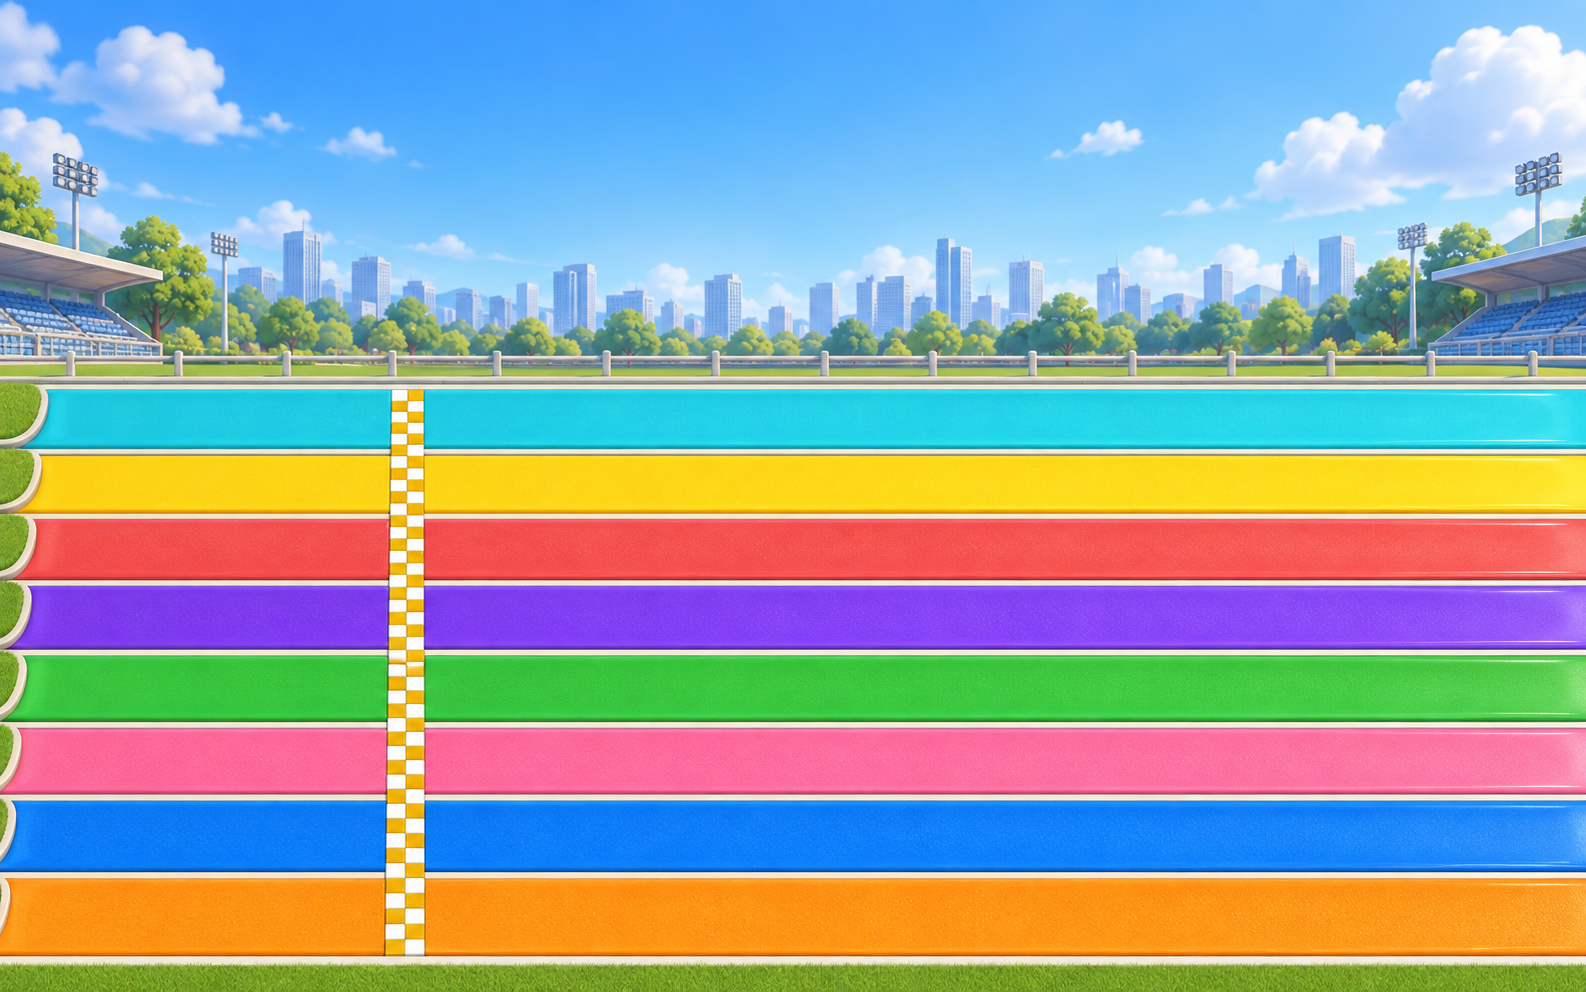
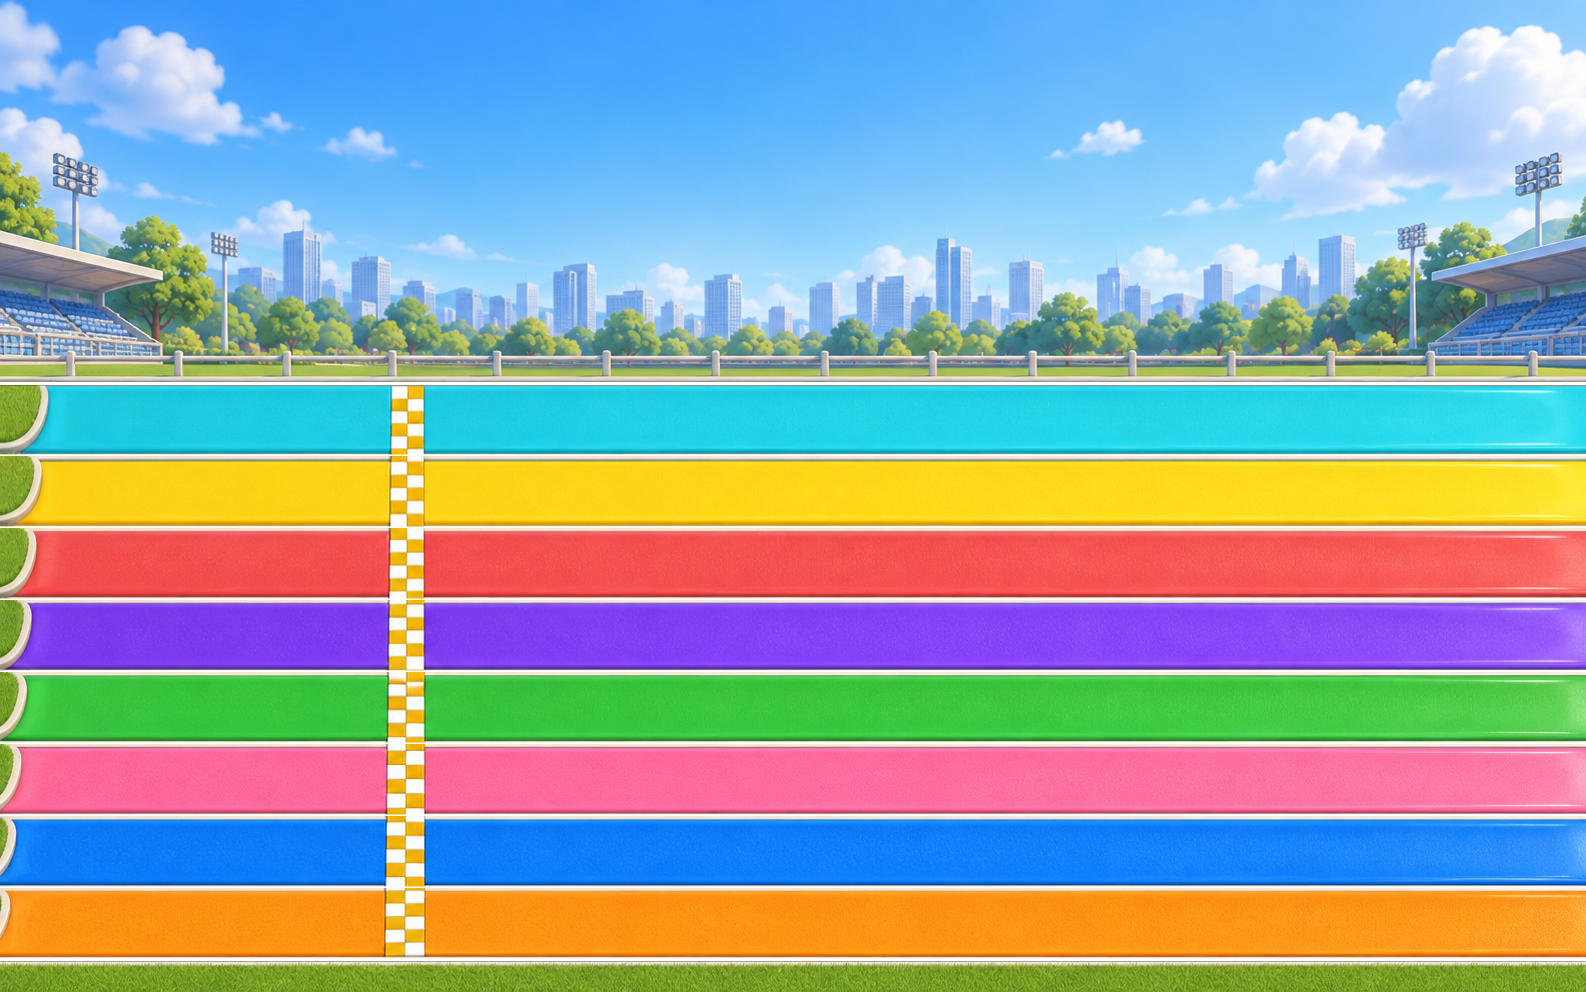
feat(team-competition): update stadium background with 8 equal lanes and continuous track

Changed region(s): [[0.0, 0.375, 1.0, 0.9688]]

diff --git a/src/style.css b/src/style.css
@@ -5962,17 +5962,17 @@ input[type="text"], input[type="password"], select, textarea {
 #treasure-modal.team-board-fullscreen .team-competition-board--live .team-race-stadium--speed-race .team-race-scoreboard { border: 1px solid rgba(89, 233, 255, .9); border-radius: clamp(12px, 1.35vw, 20px); background: linear-gradient(135deg, rgba(7, 77, 159, .94), rgba(3, 31, 91, .95)); box-shadow: inset 0 1px rgba(255, 255, 255, .28), 0 6px 17px rgba(0, 20, 68, .24); }
 #treasure-modal.team-board-fullscreen .team-competition-board--live .team-race-stadium--speed-race .team-stadium-title-card { display: grid; min-height: 96px; padding: 12px 24px; place-items: center; }
 #treasure-modal.team-board-fullscreen .team-competition-board--live .team-race-stadium--speed-race .team-stadium-title-card h2 { margin: 0; color: #fff; font-size: clamp(1.35rem, 2.5vw, 3rem); line-height: 1.08; text-align: center; text-shadow: 0 3px 0 #064b85, 0 0 16px rgba(130, 240, 255, .38); }
-.team-stadium-canvas { --stadium-start-x: 25%; --stadium-lane-height: 6.8%; position: relative; isolation: isolate; width: 100%; height: 100%; min-height: 0; overflow: hidden; border-radius: clamp(16px, 2vw, 30px); background: #59cfff url('assets/team-competition/stadium-3d-v1/stadium-8-lanes-v2.png') center / 100% 100% no-repeat; box-shadow: inset 0 0 0 2px rgba(255,255,255,.38), 0 14px 30px rgba(0, 17, 54, .32); }
+.team-stadium-canvas { --stadium-start-x: 25%; --stadium-lane-height: 7.26%; position: relative; isolation: isolate; width: 100%; height: 100%; min-height: 0; overflow: hidden; border-radius: clamp(16px, 2vw, 30px); background: #59cfff url('assets/team-competition/stadium-3d-v1/stadium-8-lanes-v2.png') center / 100% 100% no-repeat; box-shadow: inset 0 0 0 2px rgba(255,255,255,.38), 0 14px 30px rgba(0, 17, 54, .32); }
 .team-stadium-canvas__lanes { position: absolute; inset: 0; }
 .team-stadium-lane { position: absolute; left: 0; z-index: 2; width: 100%; height: var(--stadium-lane-height); transform: translateY(-50%); }
-.team-stadium-lane[data-stadium-lane="1"] { top: 42.3%; --vehicle-front-offset: 0%; --vehicle-center-offset: -31%; }
-.team-stadium-lane[data-stadium-lane="2"] { top: 48.7%; --vehicle-front-offset: 2.2%; --vehicle-center-offset: -31%; }
-.team-stadium-lane[data-stadium-lane="3"] { top: 55.4%; --vehicle-front-offset: 0%; --vehicle-center-offset: -31%; }
-.team-stadium-lane[data-stadium-lane="4"] { top: 62.3%; --vehicle-front-offset: 6.5%; --vehicle-center-offset: -30%; }
-.team-stadium-lane[data-stadium-lane="5"] { top: 69.4%; --vehicle-front-offset: 1.6%; --vehicle-center-offset: -27%; }
-.team-stadium-lane[data-stadium-lane="6"] { top: 76.7%; --vehicle-front-offset: 3.1%; --vehicle-center-offset: -28%; }
-.team-stadium-lane[data-stadium-lane="7"] { top: 84.3%; --vehicle-front-offset: 3.2%; --vehicle-center-offset: -26%; }
-.team-stadium-lane[data-stadium-lane="8"] { top: 92.5%; --vehicle-front-offset: 6.7%; --vehicle-center-offset: -26%; }
+.team-stadium-lane[data-stadium-lane="1"] { top: 42.34%; --vehicle-front-offset: 0%; --vehicle-center-offset: -31%; }
+.team-stadium-lane[data-stadium-lane="2"] { top: 49.60%; --vehicle-front-offset: 2.2%; --vehicle-center-offset: -31%; }
+.team-stadium-lane[data-stadium-lane="3"] { top: 56.85%; --vehicle-front-offset: 0%; --vehicle-center-offset: -31%; }
+.team-stadium-lane[data-stadium-lane="4"] { top: 64.11%; --vehicle-front-offset: 6.5%; --vehicle-center-offset: -30%; }
+.team-stadium-lane[data-stadium-lane="5"] { top: 71.37%; --vehicle-front-offset: 1.6%; --vehicle-center-offset: -27%; }
+.team-stadium-lane[data-stadium-lane="6"] { top: 78.63%; --vehicle-front-offset: 3.1%; --vehicle-center-offset: -28%; }
+.team-stadium-lane[data-stadium-lane="7"] { top: 85.89%; --vehicle-front-offset: 3.2%; --vehicle-center-offset: -26%; }
+.team-stadium-lane[data-stadium-lane="8"] { top: 93.15%; --vehicle-front-offset: 6.7%; --vehicle-center-offset: -26%; }
 .team-stadium-lane__info { position: absolute; top: 50%; left: 1.5%; display: grid; grid-template-columns: minmax(0, 1fr) auto; align-items: center; width: min(12%, 166px); max-height: 96%; padding: clamp(2px, .3vw, 5px) clamp(6px, .6vw, 12px); border: 1px solid color-mix(in srgb, var(--stadium-accent) 75%, white); border-radius: clamp(9px, 1vw, 16px); background: linear-gradient(105deg, color-mix(in srgb, var(--stadium-accent) 82%, #042852), rgba(1, 20, 56, .87)); box-shadow: 0 5px 13px rgba(0,0,0,.25), inset 0 1px rgba(255,255,255,.26); color: #fff; transform: translateY(-50%); }
 .team-stadium-lane__info span { grid-column: 1; color: rgba(255,255,255,.82); font-size: clamp(.45rem, .65vw, .78rem); font-weight: 900; letter-spacing: .05em; text-transform: uppercase; }
 .team-stadium-lane__info strong { grid-column: 1; overflow: hidden; font-size: clamp(.74rem, 1.25vw, 1.45rem); line-height: 1.05; text-overflow: ellipsis; white-space: nowrap; }
